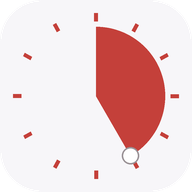
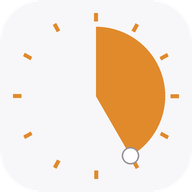
잠금화면 스타일 시계: 여러 줄 테두리 숫자와 구리빛 주황, 다이얼도 주황
현재 시각은 6:22처럼 12시간제(초 없음), 숫자 글꼴은 Monoton(숫자·콜론 서브셋).
붉은색을 주황으로 바꾸고 아이콘도 맞춤. Orbitron 글꼴은 더 이상 쓰지 않아 지움.

Claude-Session: https://claude.ai/code/session_01LtUG22A2bbdN7BG22gYFcE

diff --git a/index.html b/index.html
@@ -14,15 +14,16 @@
 <link rel="manifest" href="manifest.webmanifest">
 <link rel="icon" href="icons/icon-192.png">
 <link rel="apple-touch-icon" href="icons/apple-touch-icon.png">
-<link rel="preload" href="orbitron.woff2" as="font" type="font/woff2" crossorigin>
+<link rel="preload" href="monoton.woff2" as="font" type="font/woff2" crossorigin>
 <style>
-@font-face{font-family:"Orbitron";font-weight:600;font-display:swap;src:url(orbitron.woff2) format("woff2")}
-/* 사진 그대로: 옅은 회색 바탕에 붉은 부채꼴. 위 현재 시각, 아래 남은 시간 */
+@font-face{font-family:"Monoton";font-display:swap;src:url(monoton.woff2) format("woff2")}
+/* 옅은 회색 바탕에 주황 부채꼴. 시계 숫자는 여러 줄 테두리 글꼴(Monoton)에 구리빛 주황 */
 :root{
   --bg:#f7f6f9; --surface:#fff; --ink:#2a2326; --muted:#8a7f84; --line:#ebe6ea;
-  --red:#c4403a; --red-soft:rgb(196 64 58 / .3); --red-tint:#fbeceb; --off:#d8d2d6;
+  --accent:#e08a2c; --accent-soft:rgb(224 138 44 / .32); --accent-tint:#fdf0dd;
+  --copper:linear-gradient(180deg,#f8c67e 0%,#eba046 45%,#c9772c 100%); --off:#d8d2d6;
   --shadow:0 2px 10px rgb(0 0 0 / .07);
-  --digital:"Orbitron",ui-monospace,"SF Mono",monospace;
+  --digital:"Monoton",ui-monospace,"SF Mono",monospace;
   --body:-apple-system,BlinkMacSystemFont,"Apple SD Gothic Neo","Noto Sans KR","Malgun Gothic",system-ui,sans-serif;
   color-scheme:light;
 }
@@ -30,32 +31,32 @@
 html,body{margin:0;height:100%;background:var(--bg);color:var(--ink);font-family:var(--body);-webkit-text-size-adjust:100%;overscroll-behavior:none}
 button,input{font:inherit;color:inherit}
 button{cursor:pointer}
-:focus-visible{outline:2px solid var(--red);outline-offset:2px}
+:focus-visible{outline:2px solid var(--accent);outline-offset:2px}
 [hidden]{display:none!important}
-.digital{font-family:var(--digital);font-weight:600;font-variant-numeric:tabular-nums;letter-spacing:.04em}
+.digital{font-family:var(--digital);font-weight:400;font-variant-numeric:tabular-nums;letter-spacing:.02em;background:var(--copper);-webkit-background-clip:text;background-clip:text;color:transparent;line-height:1.1}
 
 .app{height:100%;display:flex;flex-direction:column;justify-content:center;gap:4px;max-width:900px;margin:0 auto;
   padding:calc(env(safe-area-inset-top,0px) + 18px) max(16px,env(safe-area-inset-right,0px)) calc(env(safe-area-inset-bottom,0px) + 16px) max(16px,env(safe-area-inset-left,0px))}
 .now{text-align:center}
 .now small{display:block;font-size:.8rem;color:var(--muted)}
-.now .digital{font-size:clamp(1.6rem,8vw,2.2rem)}
+.now .digital{font-size:clamp(2.6rem,15vw,4.6rem)}
 .dial{flex:none;display:flex;align-items:center;justify-content:center}
 /* 다이얼은 화면에 맞춰 최대한 크게, 위아래 시계와 바로 붙게 */
 .dial svg{width:min(100%,calc(100dvh - 330px),720px);min-width:220px;aspect-ratio:1;height:auto;display:block;touch-action:none;cursor:pointer;user-select:none;-webkit-user-select:none}
 .remain{text-align:center}
 .remain small{display:block;font-size:.8rem;color:var(--muted)}
-.remain .digital{font-size:clamp(2.6rem,15vw,4rem);color:var(--red);line-height:1.15}
+.remain .digital{font-size:clamp(2.3rem,13vw,4.2rem)}
 .remain.paused .digital{animation:blink 1.2s steps(2,start) infinite}
 @keyframes blink{to{opacity:.35}}
 .ctrl{display:grid;grid-template-columns:60px 1fr 60px;gap:14px;align-items:center;margin-top:14px;width:100%;max-width:520px;align-self:center}
-.round{width:60px;height:60px;border-radius:50%;border:0;background:var(--surface);box-shadow:var(--shadow);display:grid;place-items:center;font-size:1.4rem;color:var(--red)}
+.round{width:60px;height:60px;border-radius:50%;border:0;background:var(--surface);box-shadow:var(--shadow);display:grid;place-items:center;font-size:1.4rem;color:var(--accent)}
 .round svg{width:26px;height:26px}
-.go{height:60px;border:0;border-radius:99px;background:var(--red);color:#fff;display:flex;align-items:center;justify-content:center;gap:8px;font-weight:700;font-size:1.15rem;box-shadow:0 6px 16px rgb(196 64 58 / .35)}
+.go{height:60px;border:0;border-radius:99px;background:var(--accent);color:#fff;display:flex;align-items:center;justify-content:center;gap:8px;font-weight:700;font-size:1.15rem;box-shadow:0 6px 16px rgb(224 138 44 / .35)}
 
 /* 설정(새 창) */
 .sheet{position:fixed;inset:0;background:var(--bg);z-index:20;display:flex;flex-direction:column;transform:translateX(100%);transition:transform .26s cubic-bezier(.2,.8,.2,1)}
 .sheet.open{transform:none}
-.sheet header{background:var(--red);color:#fff;border-radius:0 0 22px 22px;display:flex;align-items:center;gap:6px;
+.sheet header{background:var(--accent);color:#fff;border-radius:0 0 22px 22px;display:flex;align-items:center;gap:6px;
   padding:calc(env(safe-area-inset-top,0px) + 8px) max(12px,env(safe-area-inset-right,0px)) 10px max(12px,env(safe-area-inset-left,0px))}
 .sheet header h2{margin:0;font-size:1.25rem}
 .back{border:0;background:none;color:#fff;width:44px;height:44px;display:grid;place-items:center;border-radius:50%}
@@ -65,9 +66,9 @@ button{cursor:pointer}
 @media (prefers-reduced-motion:reduce){.sheet{transition:none}}
 .group{background:var(--surface);border-radius:18px;padding:14px 16px;display:flex;flex-direction:column;gap:10px;box-shadow:var(--shadow)}
 .group h3{margin:0;font-size:.85rem;color:var(--muted);font-weight:600;display:flex;gap:8px;align-items:center}
-.group h3 i{font-style:normal;width:20px;height:20px;border-radius:50%;background:var(--red);color:#fff;display:grid;place-items:center;font-size:.72rem}
+.group h3 i{font-style:normal;width:20px;height:20px;border-radius:50%;background:var(--accent);color:#fff;display:grid;place-items:center;font-size:.72rem}
 .stepper{display:grid;grid-template-columns:56px 1fr 56px;align-items:center;gap:10px}
-.stepper button{height:52px;border:0;border-radius:14px;background:var(--red-tint);color:var(--red);font-weight:700;font-size:1.5rem}
+.stepper button{height:52px;border:0;border-radius:14px;background:var(--accent-tint);color:var(--accent);font-weight:700;font-size:1.5rem}
 .stepper output{text-align:center;font-size:1.7rem;font-weight:700}
 .stepper output small{font-size:.9rem;font-weight:400;color:var(--muted);margin-left:2px}
 .hm{display:flex;align-items:center;gap:6px;flex-wrap:wrap}
@@ -76,41 +77,41 @@ button{cursor:pointer}
 .field{display:flex;flex-direction:column;gap:4px}
 .field label{font-size:.78rem;color:var(--muted)}
 .field input{border:0;border-radius:12px;background:var(--bg);padding:11px 12px;font-size:1.05rem;width:100%;min-width:0}
-.btn{border:0;border-radius:99px;padding:11px 16px;font-weight:700;background:var(--red);color:#fff;white-space:nowrap;flex:none}
-.btn.light{background:var(--red-tint);color:var(--red)}
+.btn{border:0;border-radius:99px;padding:11px 16px;font-weight:700;background:var(--accent);color:#fff;white-space:nowrap;flex:none}
+.btn.light{background:var(--accent-tint);color:var(--accent)}
 .row{display:flex;gap:8px;align-items:flex-end}
 .row .field{flex:1;min-width:0}
 .toggle{display:flex;justify-content:space-between;align-items:center;gap:12px;font-size:1rem}
-.toggle span b{color:var(--red);margin-right:4px}
+.toggle span b{color:var(--accent);margin-right:4px}
 .sw{position:relative;width:52px;height:30px;flex:none}
 .sw input{position:absolute;inset:0;opacity:0;margin:0;cursor:pointer}
 .sw i{position:absolute;inset:0;border-radius:99px;background:var(--off);transition:background .2s;pointer-events:none}
 .sw i::after{content:"";position:absolute;left:3px;top:3px;width:24px;height:24px;border-radius:50%;background:#fff;transition:transform .2s;box-shadow:0 1px 3px rgb(0 0 0 / .2)}
-.sw input:checked + i{background:var(--red)}
+.sw input:checked + i{background:var(--accent)}
 .sw input:checked + i::after{transform:translateX(22px)}
-.sw input:focus-visible + i{outline:2px solid var(--red);outline-offset:2px}
+.sw input:focus-visible + i{outline:2px solid var(--accent);outline-offset:2px}
 .hint{font-size:.8rem;color:var(--muted);line-height:1.5;margin:0}
-.note{font-size:.8rem;color:var(--red);margin:0}
+.note{font-size:.8rem;color:var(--accent);margin:0}
 
 /* 끝났을 때 */
-.done{position:fixed;inset:0;z-index:50;background:linear-gradient(160deg,#d6453e,#b8322d);color:#fff;display:flex;flex-direction:column;align-items:center;justify-content:center;text-align:center;gap:18px;
+.done{position:fixed;inset:0;z-index:50;background:linear-gradient(160deg,#f0a33a,#cf721d);color:#fff;display:flex;flex-direction:column;align-items:center;justify-content:center;text-align:center;gap:18px;
   padding:calc(env(safe-area-inset-top,0px) + 24px) max(24px,env(safe-area-inset-right,0px)) calc(env(safe-area-inset-bottom,0px) + 24px) max(24px,env(safe-area-inset-left,0px))}
 .done .bell{font-size:4rem;animation:ring 1s ease-in-out infinite}
 @keyframes ring{0%,100%{transform:rotate(0)}20%{transform:rotate(14deg)}40%{transform:rotate(-12deg)}60%{transform:rotate(8deg)}80%{transform:rotate(-4deg)}}
 @media (prefers-reduced-motion:reduce){.done .bell,.remain.paused .digital{animation:none}}
-.done .digital{font-size:3.4rem}
+.done .digital{font-size:3.6rem;background:none;color:#fff}
 .done .say{background:rgb(255 255 255 / .16);border-radius:18px;padding:14px 18px;font-size:1.15rem;line-height:1.5;max-width:420px;overflow-wrap:anywhere}
 .done .say small{display:block;font-size:.75rem;opacity:.85}
-.done .ok{border:0;background:#fff;color:#b8322d;border-radius:99px;padding:16px 56px;font-weight:700;font-size:1.15rem}
+.done .ok{border:0;background:#fff;color:#b55f15;border-radius:99px;padding:16px 56px;font-weight:700;font-size:1.15rem}
 .done .again{border:0;background:none;color:#fff;font-size:.95rem;text-decoration:underline;opacity:.9}
 .next{display:block;font-size:.85rem;color:var(--muted);margin-top:2px;min-height:1.2em}
 .dim{opacity:.45;pointer-events:none}
 .seq{display:flex;flex-direction:column;gap:10px}
 .step{border-radius:14px;background:var(--bg);padding:10px 12px;display:flex;flex-direction:column;gap:8px}
 .step-top{display:flex;align-items:center;gap:8px}
-.step-no{flex:none;width:26px;height:26px;border-radius:50%;background:var(--red);color:#fff;display:grid;place-items:center;font-size:.8rem;font-weight:700}
+.step-no{flex:none;width:26px;height:26px;border-radius:50%;background:var(--accent);color:#fff;display:grid;place-items:center;font-size:.8rem;font-weight:700}
 .mini{display:flex;align-items:center;gap:4px;flex:1;min-width:0}
-.mini button{flex:none;width:36px;height:40px;border:0;border-radius:12px;background:var(--red-tint);color:var(--red);font-weight:700;font-size:1.2rem}
+.mini button{flex:none;width:36px;height:40px;border:0;border-radius:12px;background:var(--accent-tint);color:var(--accent);font-weight:700;font-size:1.2rem}
 .field .mini input,.mini input{width:2.9em;flex:none;border:0;border-radius:10px;background:var(--surface);padding:8px 6px;font-size:1.1rem;text-align:center}
 .mini span{color:var(--muted);font-size:.85rem;white-space:nowrap}
 .end{display:flex;align-items:center;gap:8px;font-size:.88rem;color:var(--muted);white-space:nowrap}
@@ -125,7 +126,7 @@ button{cursor:pointer}
 </head>
 <body>
 <main class="app">
-  <div class="now"><small id="nowDate"></small><span class="digital" id="nowClock">00:00:00</span></div>
+  <div class="now"><small id="nowDate"></small><span class="digital" id="nowClock">0:00</span></div>
   <div class="dial"><svg id="dial" viewBox="-172 -172 344 344" role="slider" aria-label="타이머 시간 (분)" aria-valuemin="0" aria-valuemax="60" tabindex="0"></svg></div>
   <div class="remain" id="remainBox"><small id="remainLabel">남은 시간</small><span class="digital" id="remain">25:00</span><span class="next" id="nextInfo"></span></div>
   <div class="ctrl">
@@ -178,10 +179,10 @@ const pol = (deg, r) => [r * Math.sin(deg * Math.PI / 180), -r * Math.cos(deg * 
 function el(tag, attrs) { const e = document.createElementNS(NS, tag); for (const k in attrs) e.setAttribute(k, attrs[k]); svg.appendChild(e); return e; }
 for (let m = 0; m < 60; m++) {
   const major = m % 5 === 0, a = m * 6, [x1, y1] = pol(a, major ? 122 : 127), [x2, y2] = pol(a, 138);
-  el("line", { x1, y1, x2, y2, stroke: major ? "var(--red)" : "var(--red-soft)", "stroke-width": major ? 3.6 : 2.2, "stroke-linecap": "round" });
-  if (major) { const [tx, ty] = pol(a, 156); el("text", { x: tx, y: ty + 6, "text-anchor": "middle", "font-size": 17, "font-weight": 700, fill: "var(--red)", "font-family": "var(--body)" }).textContent = m; }
+  el("line", { x1, y1, x2, y2, stroke: major ? "var(--accent)" : "var(--accent-soft)", "stroke-width": major ? 3.6 : 2.2, "stroke-linecap": "round" });
+  if (major) { const [tx, ty] = pol(a, 156); el("text", { x: tx, y: ty + 6, "text-anchor": "middle", "font-size": 17, "font-weight": 700, fill: "var(--accent)", "font-family": "var(--body)" }).textContent = m; }
 }
-const wedge = el("path", { fill: "var(--red)" });
+const wedge = el("path", { fill: "var(--accent)" });
 const knob = el("circle", { r: 11, fill: "#fff", stroke: "#9a9296", "stroke-width": 1.5 });
 function drawDial(ms) {
   const min = ms / 60000, a = Math.min(min, 60) / 60 * 360;
@@ -206,8 +207,8 @@ function render() {
 }
 function clock() {
   const n = new Date();
-  $("#nowClock").textContent = `${pad(n.getHours())}:${pad(n.getMinutes())}:${pad(n.getSeconds())}`;
-  $("#nowDate").textContent = `${n.getMonth() + 1}월 ${n.getDate()}일 ${"일월화수목금토"[n.getDay()]}요일 · 지금 시각`;
+  $("#nowClock").textContent = `${n.getHours() % 12 || 12}:${pad(n.getMinutes())}`;   // 잠금화면처럼 6:22
+  $("#nowDate").textContent = `${n.getMonth() + 1}월 ${n.getDate()}일 ${"일월화수목금토"[n.getDay()]}요일 · ${n.getHours() < 12 ? "오전" : "오후"}`;
 }
 let raf = 0;
 function loop() {

diff --git a/sw.js b/sw.js
@@ -1,7 +1,7 @@
 // 앱 파일을 휴대폰에 저장해 두어 인터넷이 잠깐 끊겨도 열리게 한다.
 // 앱을 고칠 때마다 VERSION을 올려야 새 버전이 퍼진다.
-const VERSION = "timer-web-4";
-const ASSETS = ["./", "./index.html", "./manifest.webmanifest", "./orbitron.woff2",
+const VERSION = "timer-web-5";
+const ASSETS = ["./", "./index.html", "./manifest.webmanifest", "./monoton.woff2",
   "./icons/icon-192.png", "./icons/icon-512.png", "./icons/apple-touch-icon.png"];
 
 self.addEventListener("install", e => {

diff --git a/README.md b/README.md
@@ -13,7 +13,7 @@
 - `index.html`: 앱 전체
 - `sw.js`: 오프라인용 서비스 워커. 앱을 고치면 `VERSION`을 올려야 휴대폰에 새 버전이 퍼짐
 - `manifest.webmanifest`, `icons/`: 홈 화면 아이콘
-- `orbitron.woff2`: 디지털 시계 글꼴 Orbitron (SIL Open Font License), 숫자와 콜론만 담은 서브셋
+- `monoton.woff2`: 시계 숫자 글꼴 Monoton (SIL Open Font License), 숫자와 콜론만 담은 서브셋
 
 ## 배포
 GitHub Pages (Settings → Pages → Branch: `main`, 폴더 `/ (root)`).
